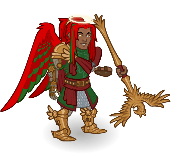
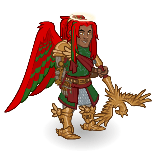
feat:补充星运皮肤立绘override

diff --git a/docs/research/data/skin-illustration-override-audit-research.md b/docs/research/data/skin-illustration-override-audit-research.md
@@ -14,8 +14,10 @@
 
 - **当前清单元数据本身仍不能直接自动告诉我们“哪张图一定错了”。**
 - `672 / 672` 个皮肤立绘当前都还是 `sourceSlot = xl`。
-- 在已经落地 3 条人工 override 后，当前只有这 3 个 skin 不是默认 `sequence 0 / frame 0`：
+- 在已经落地 5 条人工 override 后，当前只有这 5 个 skin 不是默认 `sequence 0 / frame 0`：
   - `368`：半精灵变异哨兵 -> `sequence 1 / frame 11`
+  - `133`：星运伊芙琳 -> `sequence 0 / frame 7`
+  - `123`：星运弗里 -> `sequence 1 / frame 28`
   - `473`：飞升阿斯代伦 -> `sequence 1 / frame 30`
   - `520`：舞厅蔚 -> `sequence 1 / frame 7`
 - 这意味着：**即使现在已经有少量人工修正，元数据仍不足以自动判定“剩下哪张一定错”。**
@@ -27,8 +29,10 @@
 - 第二批前 5 个样本已经做过一轮目检，其中：
   - `473` 已确认值得落地 override；
   - `362`、`290`、`515`、`111` 当前都**不建议**写 override。
-- 如果继续向后推进，第二批中仍值得再看的剩余样本是：
-  - `390`、`123`、`333`、`133`、`327`
+- 第二批剩余 5 个样本也已经补完复核，其中：
+  - `123`、`133` 已确认值得落地 override；
+  - `390`、`333`、`327` 当前都**不建议**写 override。
+- 审计脚本复跑后，`theme-expanded` 数量已从 `11` 降到 `9`；`123` 与 `133` 已不再出现在高优先级候选里。
 - 明显偏小的 `毛绒 / 宝宝 / 玩偶` 类样本，本轮仍不建议优先写 override；它们更像主题造型本意，而不是 pose 选错。
 
 这里必须保持克制：
@@ -45,10 +49,12 @@
 - 皮肤总数：`672`
 - `sourceSlot = xl`：`672`
 - `render.pipeline = skelanim`：`672`
-- `render.sequenceIndex = 0`：`669`
-- `render.frameIndex = 0`：`669`
+- `render.sequenceIndex = 0`：`668`
+- `render.frameIndex = 0`：`667`
 - 非默认 `sequence / frame` 的只有：
   - `368`
+  - `133`
+  - `123`
   - `473`
   - `520`
 
@@ -123,12 +129,12 @@ node scripts/audit-idle-champions-illustration-overrides.mjs
 
 ## 4. 当前抽样结果总览
 
-在落地 `368`、`473` 与 `520` 之后，本轮脚本最新产出的高优先级样本仍有 `18` 个，分为四类：
+在落地 `368`、`133`、`123`、`473` 与 `520` 之后，本轮脚本最新产出的高优先级样本还有 `16` 个，分为四类：
 
 - `non-obvious`：`3`
   - 结构偏差明显，但名字上又不是明显的“毛绒 / 巨人 / 飞升”主题
   - **优先级最高**
-- `theme-expanded`：`11`
+- `theme-expanded`：`9`
   - 尺寸偏差明显，但也可能是主题本来就更大 / 更宽 / 更高
   - **第二优先级**
 - `theme-small`：`3`
@@ -179,6 +185,34 @@ node scripts/audit-idle-champions-illustration-overrides.mjs
 - 当前判断：
   - 这条调整把默认 pose 里横向外展过大的武器收回来一些，人物主体更集中；
   - 它落地后仍会被结构偏差脚本列进 `theme-expanded`，这也再次说明审计脚本只能做“候选排序”，不能替代人工目检；
+  - 已写入 `scripts/data/champion-illustration-overrides.json`。
+
+### 5.4 `123`：星运弗里
+
+- 落地规则：
+  - `preferredSequenceIndexes = [1]`
+  - `preferredFrameIndexes = [28]`
+- 落地后结果：
+  - `render.sequenceIndex: 0 -> 1`
+  - `render.frameIndex: 0 -> 28`
+  - 尺寸从 `176 x 154` 调整为 `158 x 152`
+- 当前判断：
+  - 这条调整把默认 pose 里右侧法杖的横向外伸收回来一些，整体更接近弗里皮肤组的常见占幅；
+  - 落地后它已经不再出现在 `theme-expanded` 候选里；
+  - 已写入 `scripts/data/champion-illustration-overrides.json`。
+
+### 5.5 `133`：星运伊芙琳
+
+- 落地规则：
+  - `preferredSequenceIndexes = [0]`
+  - `preferredFrameIndexes = [7]`
+- 落地后结果：
+  - `render.sequenceIndex: 0 -> 0`
+  - `render.frameIndex: 0 -> 7`
+  - 尺寸从 `140 x 244` 调整为 `142 x 182`
+- 当前判断：
+  - 这条调整显著改善了“画布过高、主体过小”的问题，人物站姿更完整，主体占比明显更合理；
+  - 落地后它已经不再出现在 `theme-expanded` 候选里；
   - 已写入 `scripts/data/champion-illustration-overrides.json`。
 
 ---
@@ -235,14 +269,33 @@ node scripts/audit-idle-champions-illustration-overrides.mjs
 说明：
 
 - 第二批前 5 个里，真正值得落地的目前只有 `473`；
-- 这也说明“结构偏差高”并不等于“当前 pose 一定错”；
-- 如果要继续往后看，第二批剩余待检样本是：`390`、`123`、`333`、`133`、`327`。
+- 这也说明“结构偏差高”并不等于“当前 pose 一定错”。
 
 ---
 
-## 8. 当前不建议优先写 override 的样本
+## 8. 第二批剩余 5 个样本复核结果
 
-### 8.1 明显缩小主题
+这 5 个样本也已经全部补做 `current vs 候选 pose` 复核。当前结论如下：
+
+| skinId | 名称 | 当前结论 |
+| --- | --- | --- |
+| `390` | 夺心魔维康妮亚 | 候选 `sequence 1 / frame 0` 只比当前轻微收窄，但夺心魔主题本来就天然外扩，**不建议写 override** |
+| `123` | 星运弗里 | 候选 `sequence 1 / frame 28` 把右侧法杖收回，整体更紧凑，**已落地 override** |
+| `333` | 魔冢伊万德拉 | 候选 `sequence 1 / frame 19` 与当前只有轻微差异，仍然保留大面积纵向长枪遮挡，**不建议写 override** |
+| `133` | 星运伊芙琳 | 候选 `sequence 0 / frame 7` 明显改善主体过小的问题，**已落地 override** |
+| `327` | 宇宙梦魇沃罗妮卡 | 候选 `sequence 1 / frame 0` 与当前几乎等价，只是轻微收窄，**不建议写 override** |
+
+说明：
+
+- 这一轮补看之后，第二批里新增落地的是 `123` 与 `133`；
+- `390`、`333`、`327` 虽然结构偏差仍高，但目前都没有看到足够明确的视觉收益；
+- 这也再次说明“候选分数变好”不等于“肉眼一定更对”。
+
+---
+
+## 9. 当前不建议优先写 override 的样本
+
+### 9.1 明显缩小主题
 
 当前抽样里这 3 个样本虽然偏差高，但更像主题造型本意：
 
@@ -255,7 +308,7 @@ node scripts/audit-idle-champions-illustration-overrides.mjs
 - 除非肉眼确认 pose 真的不对；
 - 否则不建议因为“它比别的皮肤小”就直接写 override。
 
-### 8.2 已复核正常的参考样本
+### 9.2 已复核正常的参考样本
 
 这轮仍保留一个高偏差但已人工确认正常的参考样本：
 
@@ -268,12 +321,12 @@ node scripts/audit-idle-champions-illustration-overrides.mjs
 
 ---
 
-## 9. 推荐的下一步执行顺序
+## 10. 推荐的下一步执行顺序
 
 如果下一轮继续录 override，建议按这个顺序推进：
 
 1. 继续谨慎观察 `367`，但在没有更强视觉证据前不要仓促落规则
-2. 把第二批剩余待检样本推进到下一轮：`390, 123, 333, 133, 327`
+2. 若还要继续扩样，再从当前审计结果里向后看新的 `theme-expanded` / `non-obvious` 候选，而不是重复处理 `123`、`133`
 3. 把确实需要调整的样本写入 `scripts/data/champion-illustration-overrides.json`
 4. 每录一批，都只做小范围重渲染，不要立刻全量重建
 
@@ -286,13 +339,13 @@ node scripts/sync-idle-champions-illustrations.mjs \
   --illustrationOverrides scripts/data/champion-illustration-overrides.json \
   --outputDir tmp/render-validation \
   --currentVersion v1 \
-  --skinIds 367,390,123,333,133,327 \
+  --skinIds 367,390,333,327 \
   --concurrency 2
 ```
 
 ---
 
-## 10. 当前记录关联文件
+## 11. 当前记录关联文件
 
 - `scripts/audit-idle-champions-illustration-overrides.mjs`
 - `scripts/data/champion-illustration-overrides.json`
